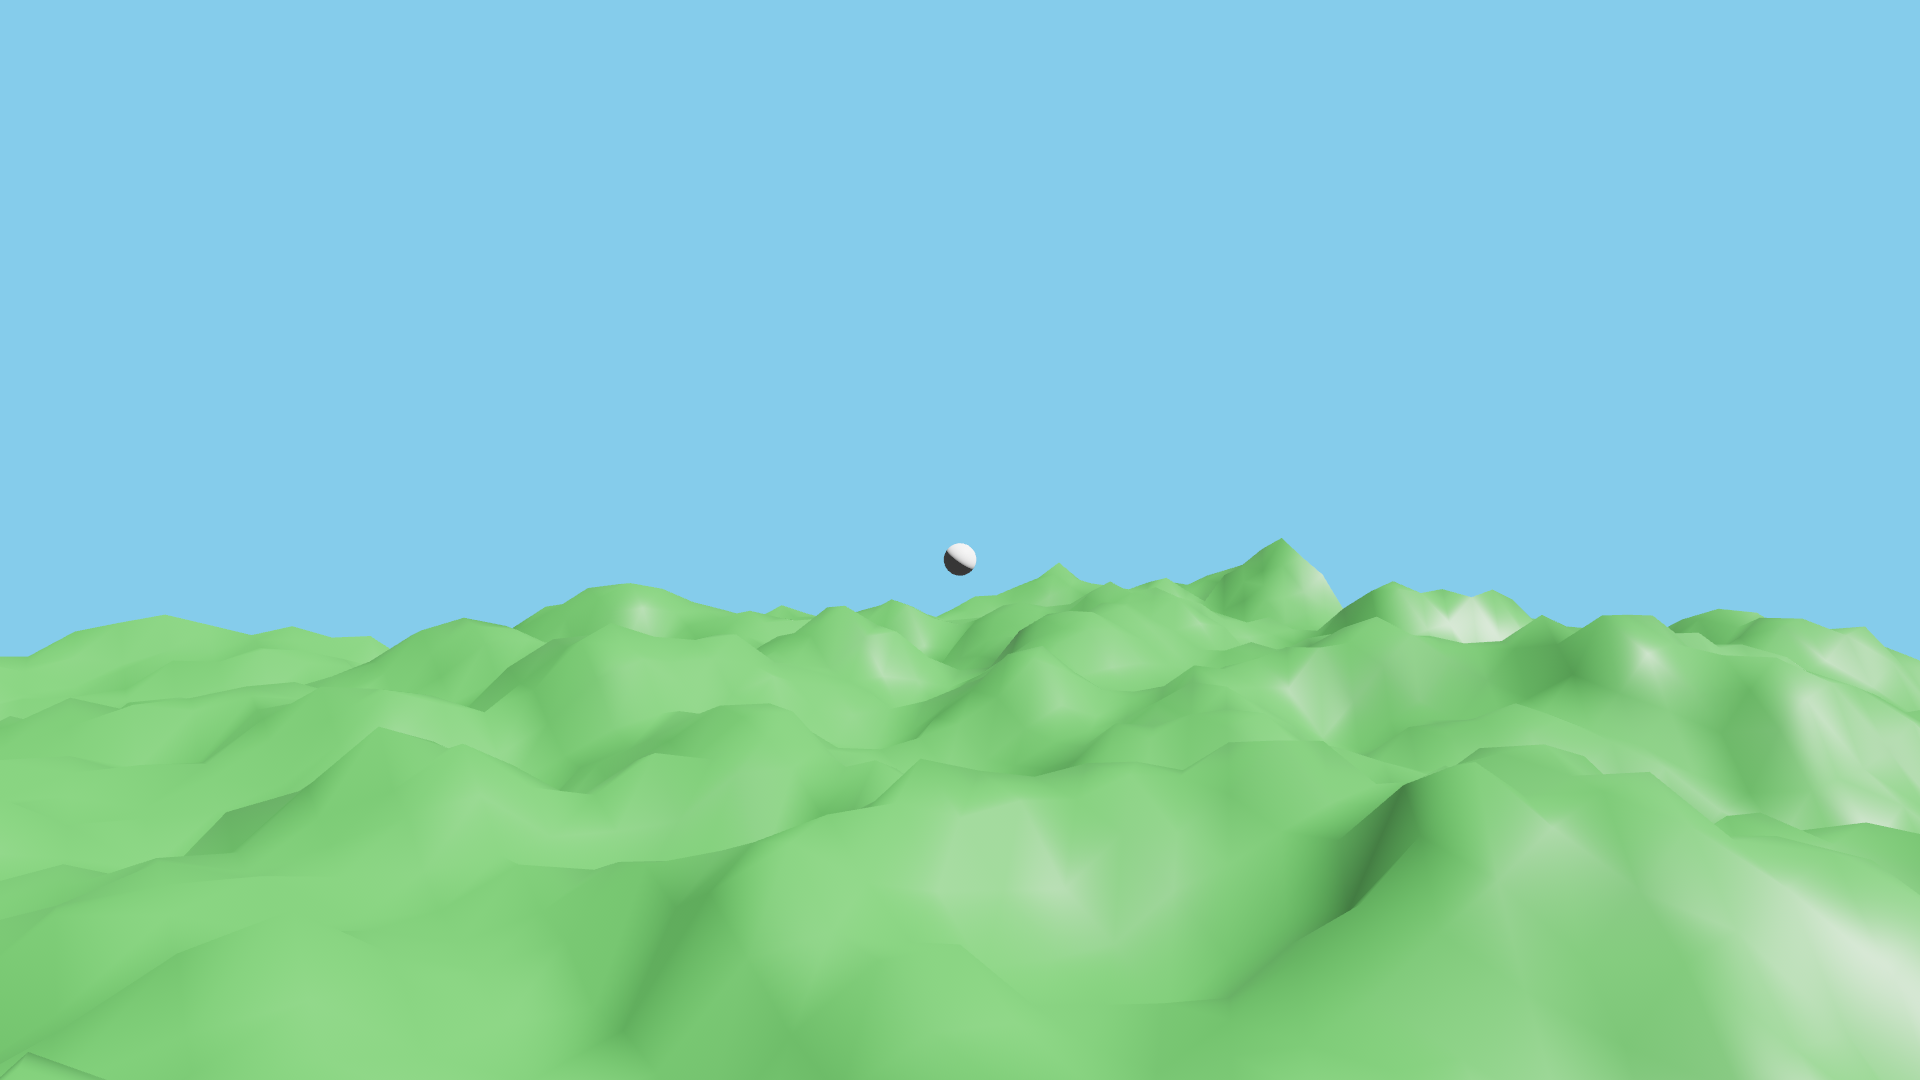
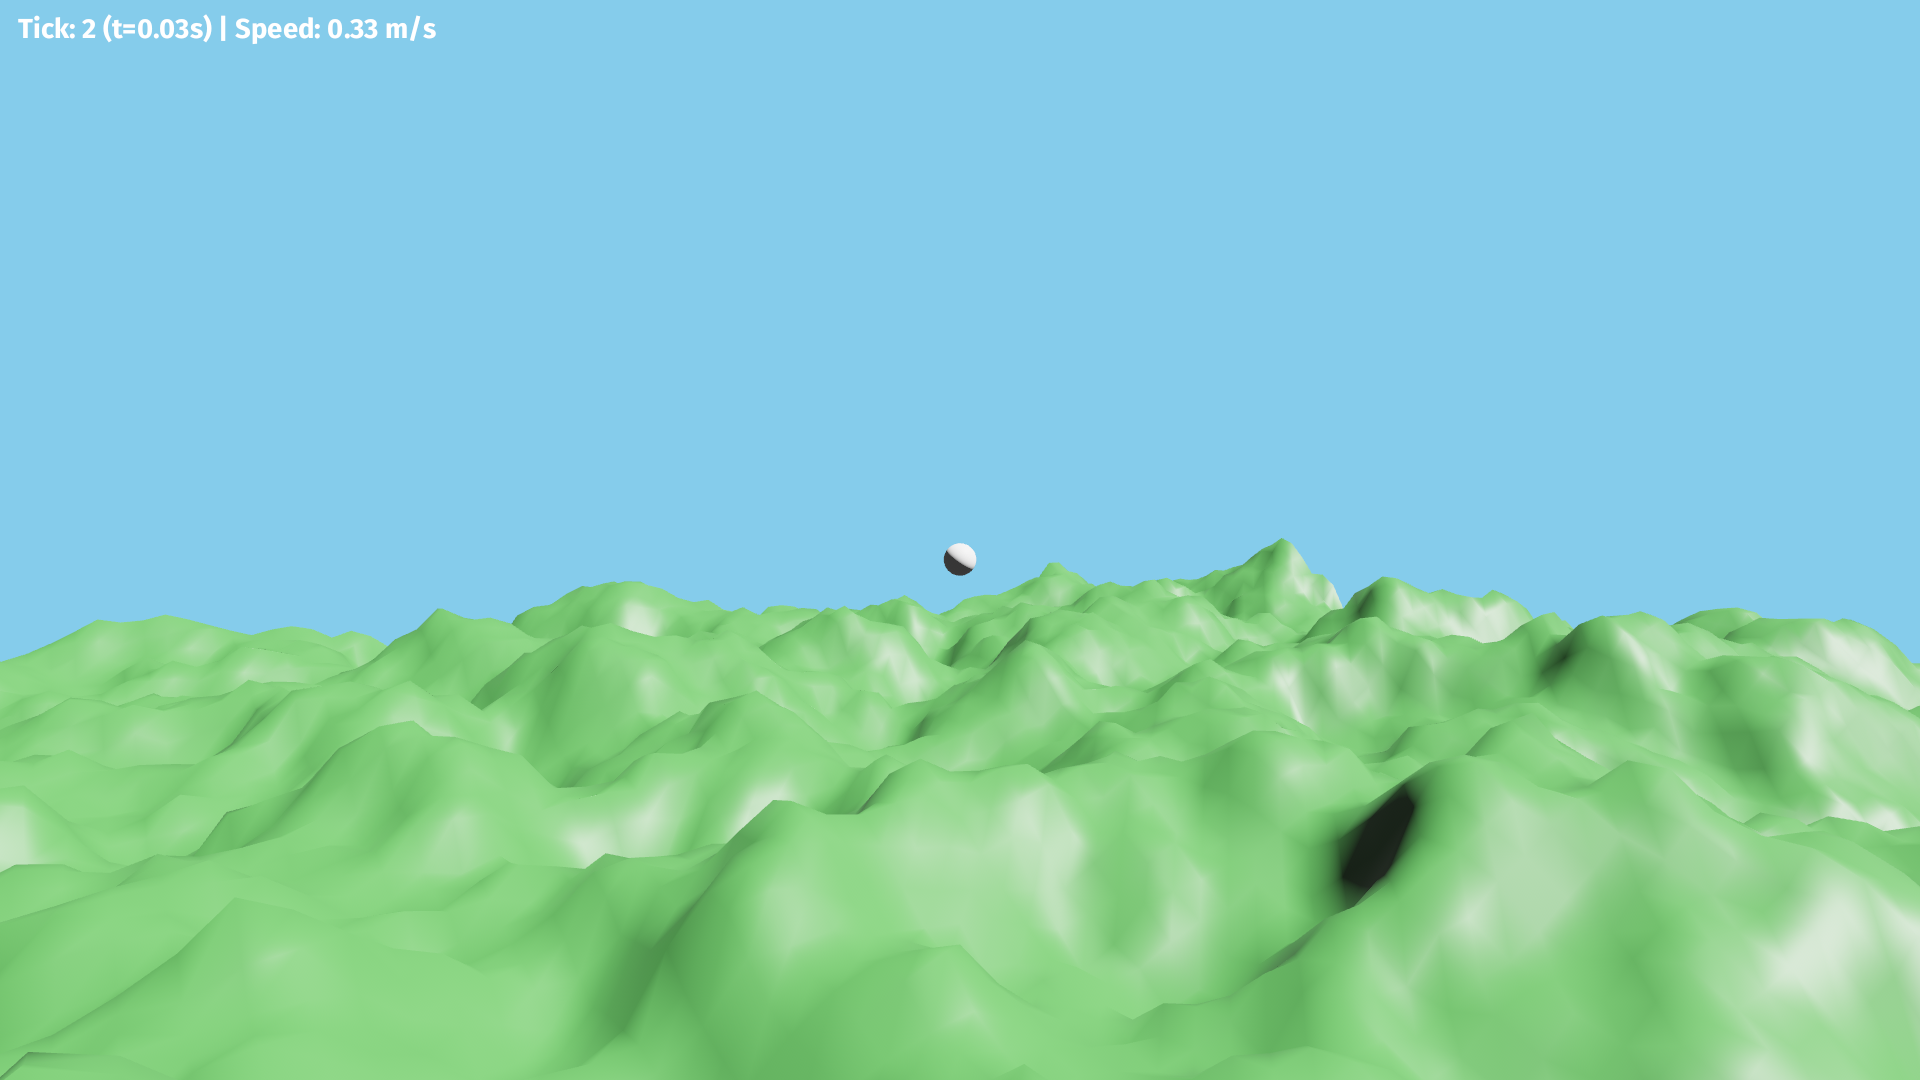
terrain now filling and ball falling

diff --git a/src/plugins/terrain.rs b/src/plugins/terrain.rs
@@ -25,7 +25,7 @@ impl Default for TerrainConfig {
             lacunarity: 2.0,
             gain: 0.5,
             chunk_size: 128.0,
-            resolution: 64,
+            resolution: 128,
         }
     }
 }
@@ -67,15 +67,17 @@ impl TerrainSampler {
 
     /// Central-difference normal.
     pub fn normal(&self, x: f32, z: f32) -> Vec3 {
-        let d = 0.25;
+        // Sample spacing proportional to underlying grid cell size.
+        let mut d = self.cfg.chunk_size / self.cfg.resolution as f32;
+        // Clamp to avoid too small (noise precision / fp noise) or too large (loss of detail).
+        d = d.clamp(0.05, 0.5);
         let h_l = self.height(x - d, z);
         let h_r = self.height(x + d, z);
         let h_d = self.height(x, z - d);
         let h_u = self.height(x, z + d);
         let dx = h_l - h_r;
         let dz = h_d - h_u;
-        let n = Vec3::new(dx, 2.0 * d, dz).normalize_or_zero();
-        n
+        Vec3::new(dx, 2.0 * d, dz).normalize_or_zero()
     }
 }
 

diff --git a/src/plugins/scene.rs b/src/plugins/scene.rs
@@ -107,7 +107,6 @@ fn simple_ball_physics(
         }
 
         // Compute tangential component for sliding (vel already had normal removed if downward)
-        let tangent_vel = kin.vel - n * kin.vel.dot(n);
 
         // Add gravity component along the plane (simulate rolling/sliding). Gravity vector is (0,g,0).
         // Component of gravity along plane: g_parallel = g_vec - n*(g_vec·n)
@@ -128,7 +127,7 @@ fn simple_ball_physics(
                 tangential = Vec3::ZERO;
             } else {
                 let new_speed = speed - drop;
-                kin.vel += (tangential.normalize() * (new_speed - speed));
+                kin.vel += tangential.normalize() * (new_speed - speed);
                 tangential = kin.vel - n * kin.vel.dot(n);
             }
         }
